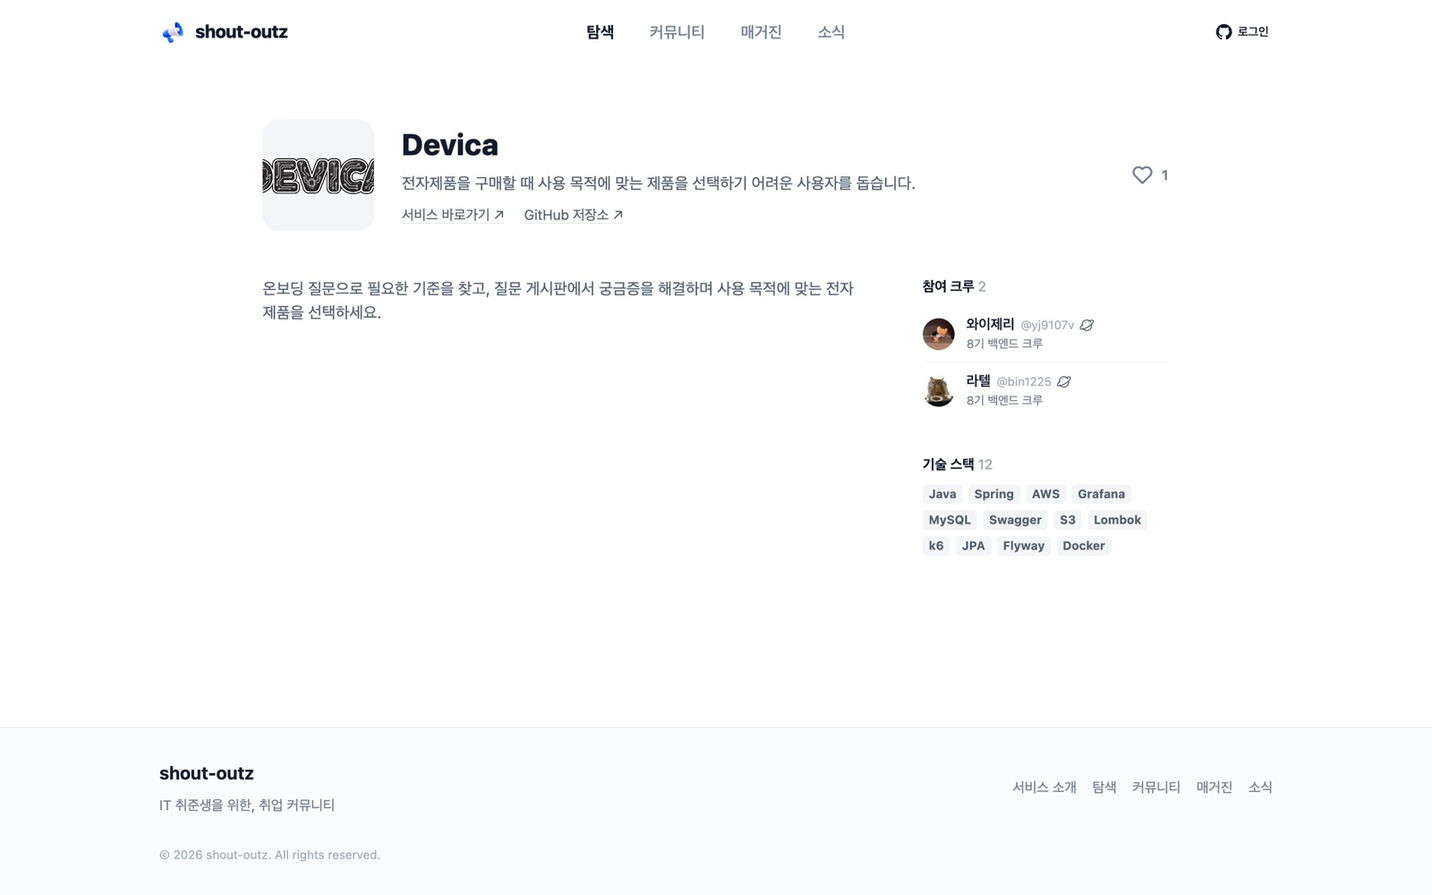
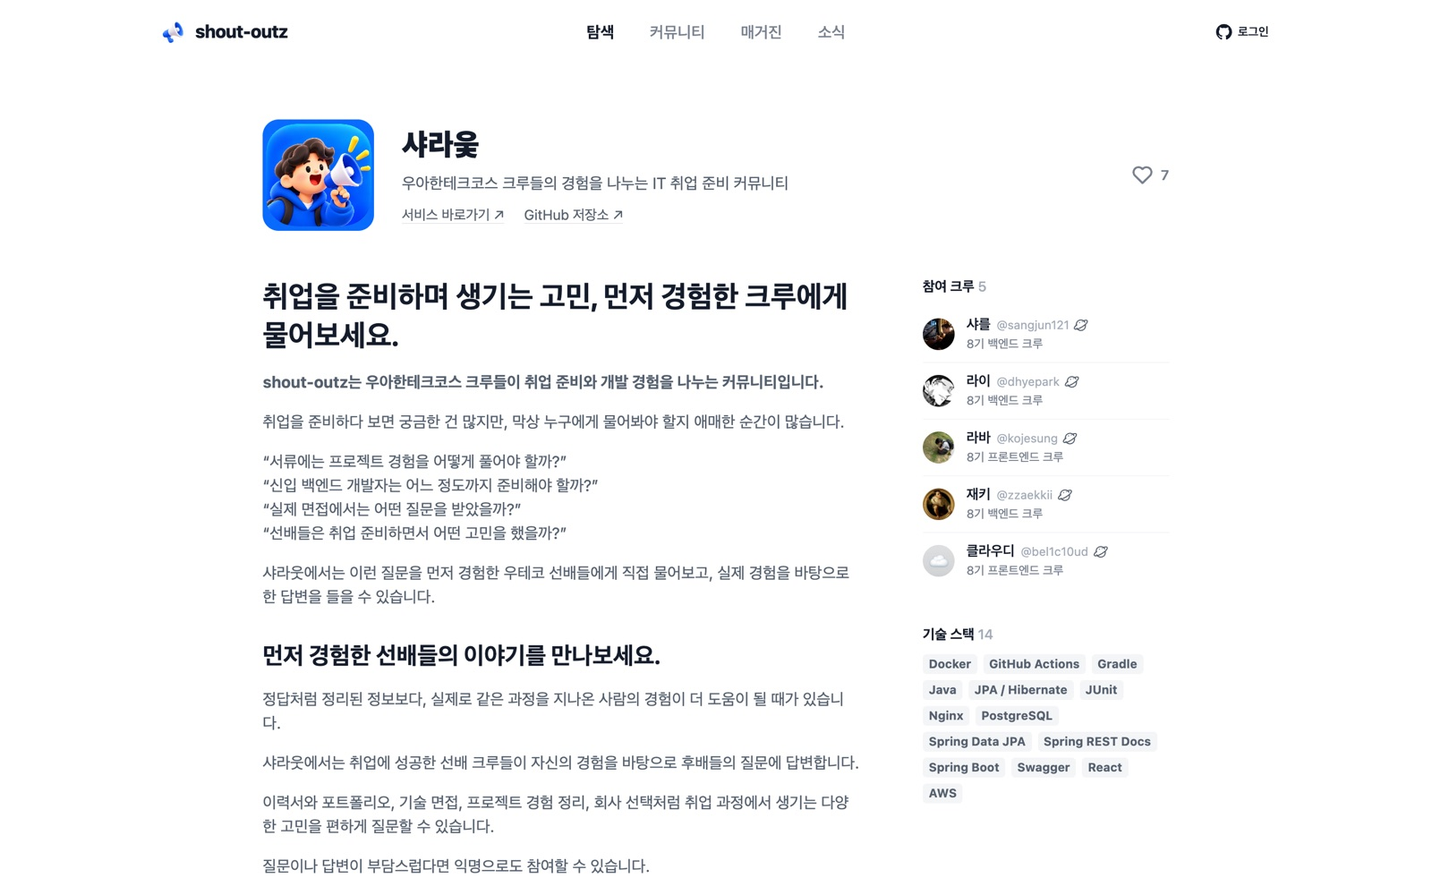
feat: 개편 전 화면을 샤라웃으로 변경, 경험과 자료 목록을 실제 분량으로 보강, 상세보기 시작 위치 수정

diff --git a/index.html b/index.html
@@ -331,7 +331,7 @@ h1,h2{font-weight:800;letter-spacing:-.02em;line-height:1.28}
 .on .scr .after,.on .sbar .u2{animation:sfade .45s 3.55s forwards}
 .on .sbar .u1{animation:sfade .3s 3.55s reverse both}
 @keyframes sfade{from{opacity:0}to{opacity:1}}
-@keyframes scur{0%{opacity:0;transform:translate(27rem,19rem)}12%{opacity:1}62%{opacity:1;transform:translate(15.2rem,11rem)}71%{transform:translate(15.2rem,11rem) scale(.84)}80%{opacity:1;transform:translate(15.2rem,11rem)}100%{opacity:0;transform:translate(15.2rem,11rem)}}
+@keyframes scur{0%{opacity:0;transform:translate(31rem,19rem)}12%{opacity:1}62%{opacity:1;transform:translate(22.6rem,10.6rem)}71%{transform:translate(22.6rem,10.6rem) scale(.84)}80%{opacity:1;transform:translate(22.6rem,10.6rem)}100%{opacity:0;transform:translate(22.6rem,10.6rem)}}
 .shot>small{display:block;font-size:.9375rem;font-weight:700;color:var(--b600);margin-bottom:.625rem}
 .sbox{border:1px solid var(--g200);border-radius:.875rem;overflow:hidden;background:#fff;box-shadow:0 1.5rem 3rem -1.75rem oklch(13% .028 261.7/.28)}
 .sbar{height:1.75rem;display:flex;align-items:center;gap:.3rem;padding:0 .75rem;background:var(--g50);border-bottom:1px solid var(--g200)}
@@ -341,7 +341,7 @@ h1,h2{font-weight:800;letter-spacing:-.02em;line-height:1.28}
 /* 자료 상세보기 창 */
 .mdl{position:absolute;inset:0;z-index:5;background:oklch(13% .028 261.7/.4);display:flex;justify-content:center;align-items:flex-start;padding-top:1.5rem;opacity:0;pointer-events:none;transition:opacity .3s var(--travel)}
 .mdl.show{opacity:1}
-.mdl-card{position:relative;width:35rem;height:36.5rem;background:#fff;border-radius:1.25rem;overflow:hidden;padding:1.75rem 1.75rem 0;transform:translateY(1rem) scale(.98);transition:transform .4s var(--arrive);box-shadow:0 2rem 4rem -1.5rem oklch(13% .028 261.7/.45)}
+.mdl-card{position:relative;width:35rem;height:36.5rem;background:#fff;border-radius:1.25rem;overflow:hidden;padding:1.75rem 1.75rem 0;transform:scale(.97);transition:transform .35s var(--arrive);box-shadow:0 2rem 4rem -1.5rem oklch(13% .028 261.7/.45)}
 .mdl.show .mdl-card{transform:none}
 .mdl-x{position:absolute;right:1.25rem;top:1.25rem;font-size:1rem;color:var(--g500);z-index:2;background:#fff;border-radius:50%;width:1.75rem;height:1.75rem;display:grid;place-items:center}
 .mdl-cam{transition:transform 1s var(--travel)}
@@ -379,7 +379,7 @@ h1,h2{font-weight:800;letter-spacing:-.02em;line-height:1.28}
 .mrow .m b{color:var(--g600);font-weight:600}
 .mrow .ti{display:flex;gap:.5rem;font-size:1rem;font-weight:700;line-height:1.4}
 .mrow .ti svg{width:1.125rem;height:1.125rem;flex:none;margin-top:.15rem}
-.talks{display:grid;grid-template-columns:repeat(3,1fr);gap:1rem;margin-top:.875rem}
+.talks{display:grid;grid-template-columns:repeat(3,1fr);gap:1.25rem 1rem;margin-top:.875rem}
 .talks img{width:100%;aspect-ratio:16/9;object-fit:cover;border-radius:.75rem}
 .talks p{font-size:.8125rem;font-weight:600;line-height:1.4;margin-top:.4rem}
 .talks .badge{display:inline-block;margin-top:.5rem}
@@ -593,7 +593,7 @@ img.jlogo.fill{padding:0;object-fit:cover}
       <div class="shot rv" style="--i:3">
         <small>개편 전 프로젝트 탭 (실제 화면)</small>
         <div class="sbox">
-          <div class="sbar"><i></i><i></i><i></i><span class="u1">shout-ou.tz/projects</span><span class="u2">shout-ou.tz/projects/@devica</span></div>
+          <div class="sbar"><i></i><i></i><i></i><span class="u1">shout-ou.tz/projects</span><span class="u2">shout-ou.tz/projects/@shout-outz</span></div>
           <div class="scr">
             <img src="assets/real-projects.jpg" alt="프로젝트 이름, 소개, 기술 스택만 나열된 개편 전 프로젝트 목록 화면">
             <img class="after" src="assets/real-intro.jpg" alt="카드를 누르면 나오던, 소개와 참여 크루와 기술 스택만 있는 화면">
@@ -709,19 +709,38 @@ img.jlogo.fill{padding:0;object-fit:cover}
                   <div class="mbody">
                     <div class="stag"><div class="meta">샤라웃의 자료 37 · 블로그 1 · PR 26 · 팀 문서 10</div><div class="tt">동시성 제어/락</div></div>
                     <div class="msec stag"><h5>샤라웃의 이야기 <span class="cnt">2</span></h5>
-                      <div class="mrow"><div class="m"><span class="badge">PR</span><b>샤라웃</b><span>2026년 10월 21일</span></div><div class="ti"><svg class="gh"></svg>[BE/refactor] 피드 인기순 정렬을 저장된 좋아요와 댓글 수로 조회 (#504)</div></div>
-                      <div class="mrow"><div class="m"><span class="badge">PR</span><b>샤라웃</b><span>2026년 10월 16일</span></div><div class="ti"><svg class="gh"></svg>[BE/refactor] 피드 목록의 '내가 누른 반응' 확인용 사용자 기준 인덱스 추가 (#477)</div></div>
+                      <div class="mrow"><div class="m"><span class="badge">PR</span><b>샤라웃</b><span>2026년 10월 21일</span></div><div class="ti"><svg class="gh"></svg><span>[BE/refactor] 피드 인기순 정렬을 저장된 좋아요와 댓글 수로 조회 (#504)</span></div><p class="su">반정규화, 인덱스, Flyway로 인기순 조회를 개선한 과정이라, 조회 성능과 데이터 정합성을 함께 챙길 때 참고하기 좋아요.</p></div>
+                      <div class="mrow"><div class="m"><span class="badge">PR</span><b>샤라웃</b><span>2026년 10월 16일</span></div><div class="ti"><svg class="gh"></svg><span>[BE/refactor] 피드 목록의 '내가 누른 반응' 확인용 사용자 기준 인덱스 추가 (#477)</span></div><p class="su">사용자 기준 인덱스, Index Only Scan, CONCURRENTLY로 조회를 개선한 과정이라, 실행 계획 분석과 운영 중 인덱스 추가에 참고하기 좋아요.</p></div>
                     </div>
-                    <div class="msec stag"><h5>관련 테코톡 <span class="cnt">3</span></h5>
+                    <div class="msec stag"><h5>관련 테코톡 <span class="cnt">12</span></h5>
                       <div class="talks">
                         <div><img src="assets/yt-At4Gyezw8WA.jpg" alt=""><span class="badge gr">테코톡</span><p>[10분 테코톡] 벨로의 Race Condition 이해하기</p></div>
                         <div><img src="assets/yt-VzgLlSXm4g.jpg" alt=""><span class="badge gr">테코톡</span><p>[10분 테코톡] 한스의 MySQL의 락</p></div>
                         <div><img src="assets/yt-gbxOmKhzXmM.jpg" alt=""><span class="badge gr">테코톡</span><p>[10분 테코톡] 제리의 세마포어</p></div>
+                        <div><img src="assets/yt-OHJJF1_NkD0.jpg" alt=""><span class="badge gr">테코톡</span><p>[10분 테코톡] 메이슨, 아토의 Java Thread</p></div>
+                        <div><img src="assets/yt-IftfkVSzOdI.jpg" alt=""><span class="badge gr">테코톡</span><p>[10분 테코톡] 냥인의 InnoDB</p></div>
+                        <div><img src="assets/yt-era8W7q3CeQ.jpg" alt=""><span class="badge gr">테코톡</span><p>[10분 테코톡] 우주의 낙관적인 락, 비관적인 락</p></div>
                       </div>
                     </div>
-                    <div class="msec stag"><h5>다른 팀의 이야기 <span class="cnt">3</span></h5><p>같은 주제를 다룬 다른 팀의 자료예요.</p>
-                      <div class="mrow" style="border-top:0"><div class="m"><span class="badge">PR</span><b>쏙</b><span>2026년 10월 12일</span></div><div class="ti"><svg class="gh"></svg>fix: 다운로드 잡 동시 생성 제한 레이스 컨디션 수정</div></div>
-                      <div class="mrow"><div class="m"><span class="badge gr">팀 문서</span><b>자리하나?</b><span>2026년 10월 13일</span></div><div class="ti"><svg class="gh"></svg>ADR 0020. 초대 합류는 unique 제약과 낙관적 잠금으로 충돌을 처리한다</div></div>
+                    <div class="msec stag"><h5>다른 팀의 이야기 <span class="cnt">34</span></h5><p>같은 주제를 다룬 다른 팀의 자료예요.</p>
+                      <div class="mrow" style="border-top:0"><div class="m"><span class="badge">PR</span><b>chaekchaek</b><span>2026년 10월 21일</span></div><div class="ti"><svg class="gh"></svg><span>[AN] Android와 iOS의 오류 안내 UI와 복구 정책을 통일한다</span></div><p class="su">Compose, 요청 세대 검사, 소유권 검사로 모바일 오류 복구 중 입력 소실과 재시도 중단을 막을 때 참고하기 좋아요.</p></div>
+                      <div class="mrow"><div class="m"><span class="badge gr">팀 문서</span><b>DAYNOMY</b><span>2026년 10월 20일</span></div><div class="ti"><svg class="gh"></svg><span>포트폴리오 원장 변경 전에 포트폴리오 잠금 획득</span></div><p class="su">비관적 잠금, JPA, TransactionTemplate로 원장 정합성을 지키고 외부 API를 잠금 밖으로 분리할 때 참고하기 좋아요.</p></div>
+                      <div class="mrow"><div class="m"><span class="badge">PR</span><b>Knot</b><span>2026년 10월 18일</span></div><div class="ti"><svg class="gh"></svg><span>[BE] 전사 작업 DB 대기열과 재시작 복구</span></div><p class="su">FIFO, lease, 독립 트랜잭션으로 DB 대기열과 재시작 복구를 다뤄, 작업 선점과 중복 결과 저장을 설계할 때 참고하기 좋아요.</p></div>
+                      <div class="mrow"><div class="m"><span class="badge gr">팀 문서</span><b>Rilog.</b><span>2026년 10월 17일</span></div><div class="ti"><svg class="gh"></svg><span>조회수 메모리 집계 — #697</span></div><p class="su">Caffeine, ReentrantLock, Future로 조회수 집계의 중복 방지, 동시성 제어와 실패 복구를 설계할 때 참고하기 좋아요.</p></div>
+                      <div class="mrow"><div class="m"><span class="badge gr">팀 문서</span><b>찰캌</b><span>2026년 10월 14일</span></div><div class="ti"><svg class="gh"></svg><span>기기 등록과 회원 탈퇴에서 로그인 잠금 순서를 맞추는 이유</span></div><p class="su">PostgreSQL, TreeSet으로 잠금 순서를 맞추는 이유를 다뤄, 여러 요청의 교착을 예방하고 검증할 때 참고하기 좋아요.</p></div>
+                      <div class="mrow"><div class="m"><span class="badge gr">팀 문서</span><b>찰캌</b><span>2026년 10월 14일</span></div><div class="ti"><svg class="gh"></svg><span>푸시 수신 설정은 바꾼 항목만 보낸다</span></div><p class="su">부분 수정, Boolean, 행 잠금으로 설정 변경을 다뤄, 오래된 값의 덮어쓰기와 동시 수정 충돌을 막을 때 참고하기 좋아요.</p></div>
+                      <div class="mrow"><div class="m"><span class="badge">PR</span><b>찰캌</b><span>2026년 10월 14일</span></div><div class="ti"><svg class="gh"></svg><span>fix: CPU가 적은 빌드 환경에서 공지 동시성 테스트가 실패하는 문제 수정</span></div><p class="su">CompletableFuture, 고정 스레드 풀, ActiveProcessorCount로 CPU가 적은 환경의 동시성 테스트 실패를 재현하고 해결할 때 참고하기 좋아요.</p></div>
+                      <div class="mrow"><div class="m"><span class="badge gr">팀 문서</span><b>자리하나?</b><span>2026년 10월 13일</span></div><div class="ti"><svg class="gh"></svg><span>ADR 0020. 초대 합류는 unique 제약과 낙관적 잠금으로 충돌을 처리한다</span></div><p class="su">unique 제약, 낙관적 잠금, 트랜잭션 재시도로 정상 합류와 충돌을 구분해, 동시 요청의 정합성을 설계할 때 참고하기 좋아요.</p></div>
+                      <div class="mrow"><div class="m"><span class="badge">PR</span><b>쏙</b><span>2026년 10월 12일</span></div><div class="ti"><svg class="gh"></svg><span>fix: 다운로드 잡 동시 생성 제한 레이스 컨디션 수정</span></div><p class="su">READ COMMITTED, 비관적 락, 래치로 사용자별 작업 제한을 검증한 과정이라, 동시 요청의 개수 제한을 설계할 때 참고하기 좋아요.</p></div>
+                      <div class="mrow"><div class="m"><span class="badge gr">팀 문서</span><b>히유</b><span>2026년 10월 7일</span></div><div class="ti"><svg class="gh"></svg><span>ADR-0031: 그룹 프레스를 개인 프레스의 멤버십 조인 합산으로 구한다</span></div><p class="su">조인 집계, 비정규화를 비교하며 공유 행의 쓰기 경합을 피하는 설계와 멤버십 집계의 대가를 판단할 때 참고하기 좋아요.</p></div>
+                      <div class="mrow"><div class="m"><span class="badge gr">팀 문서</span><b>총총</b><span>2026년 10월 6일</span></div><div class="ti"><svg class="gh"></svg><span>0047. 홈 이름 변경을 현재 참여 스터디의 멤버 이름에 동기화한다</span></div><p class="su">행 잠금, 단일 트랜잭션으로 이름 동기화를 설계한 자료라, 동시 수정의 일관성과 동기 처리 범위를 정할 때 참고하기 좋아요.</p></div>
+                      <div class="mrow"><div class="m"><span class="badge">블로그</span><b>페스타북</b><span>2025년 10월 6일</span></div><div class="ti"><img class="fav" src="assets/fav-tistory.svg" alt=""><span>[Database] MySQL(InnoDB) 락(Lock) (2)</span></div><p class="su">MySQL(InnoDB), 레코드 락, 갭 락의 쿼리 예시로 잠금 범위와 대기 동작을 살펴보며, 동시성 제어를 이해할 때 참고하기 좋아요.</p></div>
+                      <div class="mrow"><div class="m"><span class="badge">블로그</span><b>페스타북</b><span>2025년 10월 4일</span></div><div class="ti"><img class="fav" src="assets/fav-tistory.svg" alt=""><span>[Database] 락(Lock) (1)</span></div><p class="su">공유 락, 배타 락, 내재 락의 역할과 지원 단위를 정리해, DBMS별 락 동작을 공부할 때 참고하기 좋아요.</p></div>
+                      <div class="mrow"><div class="m"><span class="badge">블로그</span><b>투룻</b><span>2024년 11월 24일</span></div><div class="ti"><img class="fav" src="assets/fav-tistory.svg" alt=""><span>[MySQL] INSERT IGNORE 는 데이터 중복 시 왜 새로운 데이터의 삽입을 막을까?</span></div><p class="su">INSERT IGNORE, 갭 락, 역정규화를 다뤄, 중복 삽입의 락 경합을 분석하고 비즈니스에 맞는 해결책을 고를 때 참고하기 좋아요.</p></div>
+                      <div class="mrow"><div class="m"><span class="badge">블로그</span><b>동글</b><span>2023년 10월 13일</span></div><div class="ti"><img class="fav" src="assets/fav-tistory.svg" alt=""><span>분산락(Named Lock)으로 동시성 관리하기</span></div><p class="su">MySQL, Named Lock, REQUIRES_NEW를 활용해 다중 서버 동시성을 제어할 때 락과 트랜잭션 경계를 설계하는 데 참고하기 좋아요.</p></div>
+                      <div class="mrow"><div class="m"><span class="badge">블로그</span><b>요즘카페</b><span>2023년 10월 12일</span></div><div class="ti"><img class="fav" src="assets/fav-velog.ico" alt=""><span>무한 스크롤 기능에서 동시성 이슈 해결하기</span></div><p class="su">JPA, Repeatable Read, 낙관적 락으로 무한 스크롤의 중복 응답 원인과 해결책을 살펴봐, 동시성 문제의 트레이드오프를 판단할 때 참고하기 좋아요.</p></div>
+                      <div class="mrow"><div class="m"><span class="badge">블로그</span><b>집사의고민</b><span>2023년 10월 4일</span></div><div class="ti"><svg class="gh"></svg><span>동시성 문제 해결을 위한 고민</span></div><p class="su">JPQL, 낙관적 락, 비관적 락을 비교하며 갱신 분실과 데드락을 살펴보는 글이라, 카운터의 동시성 제어 방법을 고를 때 참고하기 좋아요.</p></div>
+                      <div class="mrow"><div class="m"><span class="badge">블로그</span><b>동글</b><span>2023년 9월 16일</span></div><div class="ti"><img class="fav" src="assets/fav-tistory.svg" alt=""><span>LinkedList로 글과 카테고리의 순서 구현했을 때 동시성 제어</span></div><p class="su">LinkedList, AOP, 애플리케이션 락으로 순서 저장의 동시성 문제를 살펴봐요, 사용자별 요청 충돌을 제어할 때 참고하기 좋아요.</p></div>
                     </div>
                   </div>
                 </div>
@@ -907,10 +926,30 @@ const EXPS = [
     '피드 인기순 조회의 좋아요, 댓글 전체 집계를 반정규화와 인덱스 조회로 대체해 피드 15,000개에서 18.34ms → 0.32ms로 줄임',
     'DB 원자적 증감과 실제 변경 여부에 따른 집계 갱신을 8개 스레드의 동시 요청 테스트 7개로 검증함'],
     [["[BE/refactor] 피드 목록의 '내가 누른 반응' 확인용 사용자 기준 인덱스 추가 (#477)", 478], ['[BE/refactor] 피드 인기순 정렬을 저장된 좋아요와 댓글 수로 조회 (#504)', 505]]],
+  ['장애 대응', '운영 링크 미리보기 오수집과 캐시 복구', [
+    '로컬에서 재현되지 않는 유튜브 미리보기 오수집을 운영 curl 응답으로 분석해 봇 확인 페이지가 성공으로 캐시되는 원인을 규명하고, oEmbed 우선 수집으로 운영에서 정상 제목과 썸네일 반환을 확인함',
+    '새 수집 로직만으로 갱신되지 않는 잘못된 캐시를 Flyway 마이그레이션으로 조건부 PENDING 전환해 재수집하도록 함'],
+    [], ['PR', 'PR', 'B']],
   ['설계', 'AI 추천의 비동기 처리와 장애 대체 설계', [
     '질문 작성 부담 인터뷰와 약 97.3%의 제출 구간 이탈률을 근거로 Outbox, SQS 기반의 비동기 추천 구조를 제안하고, Gemini 실패 시 OpenAI 대체를 구현함',
     '사용된 추천의 반복 노출을 조건부 UPDATE와 사용 기록, Outbox 요청의 단일 트랜잭션 저장으로 해결함'],
-    [['[BE/feature] AI 연관 추천 질문 생성 기능 도입 (#461)', 462], ['[BE/feat] Gemini 장애 시 OpenAI로 질문 추천 대체 (#472)', 475]]],
+    [['[BE/feature] AI 연관 추천 질문 생성 기능 도입 (#461)', 462], ['[BE/feat] Gemini 장애 시 OpenAI로 질문 추천 대체 (#472)', 475]], ['PR', 'PR', 'PR', 'PR']],
+  ['보안', '세션 인증과 OAuth, 배포 보안 강화', [
+    '월 60달러 AWS 예산과 단일 서버, 웹 브라우저 요구사항을 기준으로 서버 세션을 선택하고 state 검증, PKCE S256, 세션 ID 회전, CSRF 검증으로 인증 흐름을 보호함',
+    '잘못된 OAuth 콜백이 정상 로그인을 중단하지 않도록 state 일치 시에만 로그인 시도를 소비하고, 완료 주소 허용 목록 검증으로 리다이렉트와 정보 노출을 제한함'],
+    [], ['PR', 'PR', 'PR', 'PR', 'PR', 'PR']],
+  ['배포 자동화', '경로 기반 백엔드 배포 트리거 분리', [
+    '프론트엔드 변경에도 백엔드가 재배포되어 약 50초간 요청이 끊기는 문제를 분석하고, GitHub Actions와 배포 전용 브랜치로 트리거를 분리함',
+    'backend/**, appspec.yml, buildspec.yml 변경 시에만 develop과 main의 최신 커밋을 배포 브랜치에 반영하는 워크플로우를 추가함'],
+    [], ['PR', 'PR', 'PR']],
+  ['모니터링', '실제 트래픽 기반 부하 테스트와 로그 연결', [
+    'Spring 요청 로그 98,963건을 분석해 성공 응답 p50 2ms, p95 12ms를 확인하고, 홍보 당일 최고 1분 요청 비율 1.66%를 근거로 예상 피크 141RPS와 테스트 부하 211RPS를 제안함',
+    'k6에서 로그인 필수 요청 5,213건(22.6%)을 재현하지 못하는 인증 제약을 분석해 loadtest 전용 로그인 API와 운영 프로필 차단 장치를 설계, 제안함'],
+    [], ['PR', 'PR', 'PR', 'PR', 'PR']],
+  ['설계', 'S3 이미지 처리 경계와 저장 참조 분리', [
+    '공개 이미지 조회의 서버 병목과 자체 저장소 운영 부담을 고려해 S3, presigned URL 기반 저장과 조회를 구축하고, 이후 공개 이미지 조회를 CloudFront URL로 전환함',
+    '초기 서비스 규모와 Lambda의 별도 배포, IAM, 재시도 관리 부담을 비교해 내부 비동기 이미지 워커를 구현하고 최대 스레드 2개와 대기열 100개로 처리 자원을 제한함'],
+    [], ['PR', 'PR', 'PR', 'PR']],
 ];
 
 /* ============ 공통 도구 ============ */
@@ -1013,8 +1052,8 @@ const demo = (() => {
     card[slug] = c; grid.append(c);
   }
   $('#roles').innerHTML = [['ALL', '전체'], ...Object.entries(GROUPS).map(([k, v]) => [k, v[0]])].map(([k, n]) => `<div class="it" data-role="${k}">${n}</div>`).join('');
-  $('#exps').innerHTML = EXPS.map(([cat, title, bullets, srcs]) => `<div class="exp stag"><small>${cat}</small><b>${title}</b><ul>${bullets.map((b) => `<li>${b}</li>`).join('')}</ul>
-    <span class="pill"><span class="dots">${srcs.map(() => '<span class="sb">PR</span>').join('')}</span>출처 ${srcs.length}개 <em>▾</em></span>
+  $('#exps').innerHTML = EXPS.map(([cat, title, bullets, srcs, kinds = srcs.map(() => 'PR')]) => `<div class="exp stag"><small>${cat}</small><b>${title}</b><ul>${bullets.map((b) => `<li>${b}</li>`).join('')}</ul>
+    <span class="pill"><span class="dots">${kinds.map((k) => `<span class="sb">${k}</span>`).join('')}</span>출처 ${kinds.length}개 <em>▾</em></span>
     <div class="srcbox"><div><ul>${srcs.map(([t, n]) => `<li><span class="sb">PR</span><span>${t}</span><em>#${n}</em></li>`).join('')}</ul></div></div></div>`).join('');
 
   // 화면 값 바꾸기
@@ -1092,7 +1131,8 @@ const demo = (() => {
       <h6>한줄 소개</h6><p>${m.line}</p>
       <h6 id="mdlLearn">이 자료에서 배울 점</h6><ol>${m.learn.map((t, i) => `<li><i>${i + 1}</i>${t}</li>`).join('')}</ol>
       <h6>어떤 문제를 어떻게 풀었나 <em>${m.n}</em></h6><small class="en">경험 1</small><dl class="how">${howHTML(m.how)}</dl>`;
-    $('#mdlCam').style.transform = ''; $('#mdl').classList.add('show');
+    const cam = $('#mdlCam'); cam.style.transition = 'none'; cam.style.transform = ''; cam.offsetWidth; cam.style.transition = '';   // 앞서 내려 둔 위치가 남지 않게, 움직임 없이 맨 위로 돌려 둔다.
+    $('#mdl').classList.add('show');
   }
   const closeModal = () => $('#mdl').classList.remove('show');
   // 상세보기 창 안에서 el 이 위쪽에 오도록 내용을 올린다.
@@ -1126,7 +1166,7 @@ const demo = (() => {
   function reset() {
     closeModal(); setPage('explore'); setDetailTab('exp'); setTab('keyword'); setKwResult(null); setReqs([JOB_REQS[0]]); setQuery(''); setFocus(false); setRole('ALL'); setTopic(null); setCount(80, '');
     $$('.card').forEach((c) => c.classList.remove('hov')); $$('.hov').forEach((e) => e.classList.remove('hov'));
-    scrollCam($('#camX')); scrollCam($('#camD')); scrollCam($('#camJ')); scrollCam($('#camE')); $('#camD').style.transitionDuration = '';
+    scrollCam($('#camX')); scrollCam($('#camD')); scrollCam($('#camJ')); scrollCam($('#camE')); $('#camD').style.transition = '';
     $$('#pgDetail .stag, #pgJob .stag, #pgExplore .stag, #pgExp .stag').forEach((e) => e.classList.remove('in')); EXPS.forEach((_, i) => openSrc(i, false));
     cur.classList.remove('show'); cur.style.transform = `translate(${52 * rem()}px,${44 * rem()}px)`;
     return setList(LIST_ALL);
@@ -1184,21 +1224,17 @@ const demo = (() => {
       openModal('daynomy'); cur.classList.remove('show'); await wait(1500);
       scrollModal($('#mdlLearn')); await wait(700);
     },
-    // 4. 다시 프로젝트의 자료 탭: 목록을 끝까지 내려 본 뒤, 경험의 바탕이 된 PR 하나를 상세보기로 연다
+    // 4. 다시 프로젝트의 자료 탭: 경험의 바탕이 된 공개 자료 목록을 끝까지 천천히 내려 보여 준다
     async () => {
       await wait(400);
       closeModal(); scrollCam($('#camD')); setDetailTab('exp'); setPage('detail'); await wait(1000);
       await move($('#utabs [data-t=mat]'), 0.7, 0.65, 700); await click(); setDetailTab('mat'); await wait(300);
       scrollCam($('#camD'), $('#utabs'), 1); cur.classList.remove('show');
-      await stagger($$('#paneMat .stag'), 190); await wait(600);
-      // 목록을 맨 아래까지 천천히 내렸다가 다시 올라온다.
-      const secs = $$('#paneMat .msec'), slow = instant ? '' : '2.2s';
-      $('#camD').style.transitionDuration = slow; scrollCam($('#camD'), secs[secs.length - 1], 12); await wait(2900);
-      $('#camD').style.transitionDuration = instant ? '' : '1.1s'; scrollCam($('#camD'), $('#utabs'), 1); await wait(1400);
-      $('#camD').style.transitionDuration = '';
-      const row = $('#paneMat .msec .mrow'); await move($('.ti', row), 0.25, 0.6, 650); row.classList.add('hov'); await wait(320); await click(); row.classList.remove('hov');
-      openModal('pr504'); cur.classList.remove('show'); await wait(1500);
-      scrollModal($('#mdlLearn'));
+      await stagger($$('#paneMat .stag'), 190); await wait(900);
+      const rows = $$('#paneMat .mrow');
+      $('#camD').style.transition = instant ? '' : 'transform 7s cubic-bezier(.35,0,.3,1)';
+      scrollCam($('#camD'), rows[rows.length - 1], 31); await wait(7300);
+      $('#camD').style.transition = '';
     },
   ];
 
